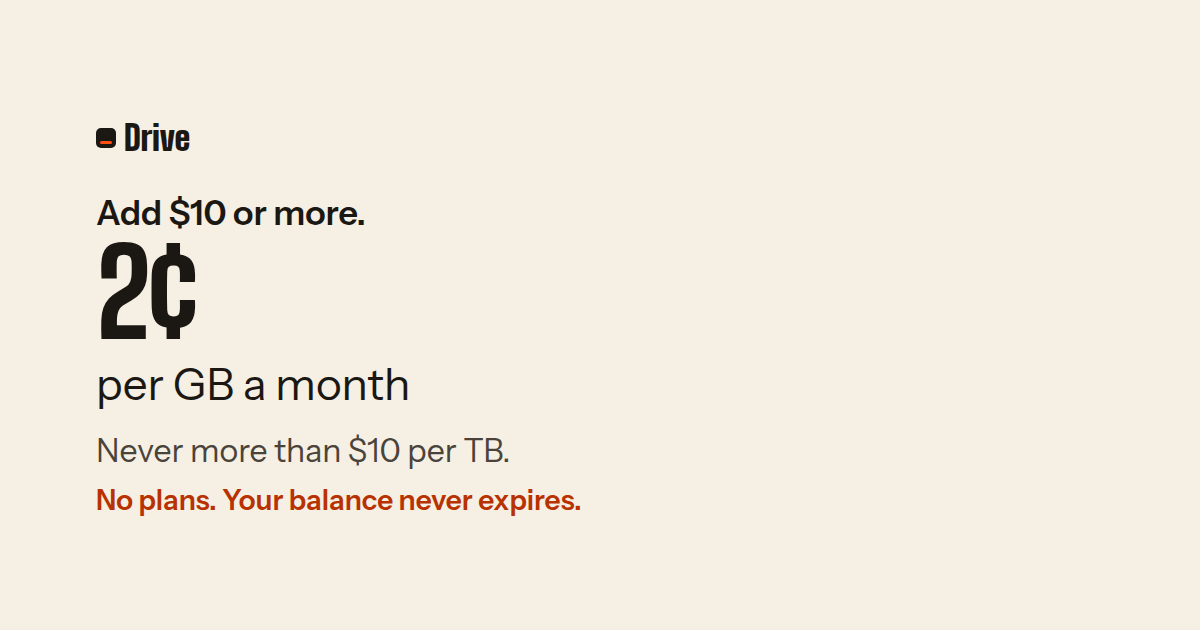
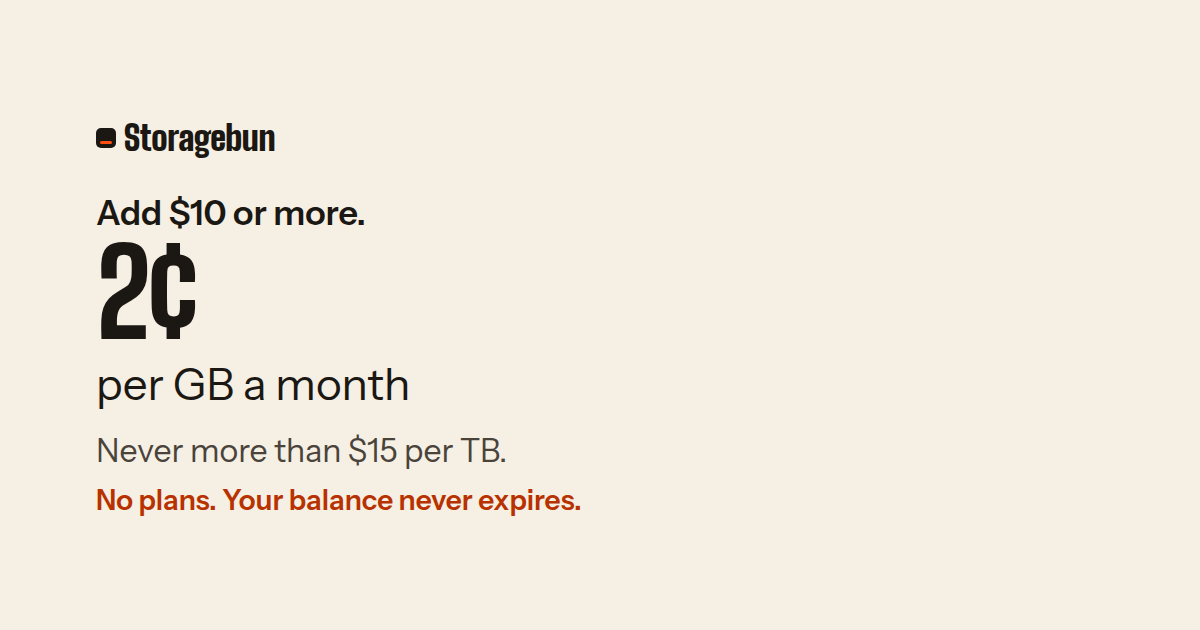
drive#870: redraw the share card and say when Access must move
The og.png still said Drive after the copy moved. The Access comment now
matches the live DNS: nameservers are still at the registrar, so the custom
domain line does not publish the site.

Changed region(s): [[0.0925, 0.181, 0.2467, 0.2714], [0.3083, 0.6937, 0.4317, 0.754]]

diff --git a/cloudflare.config.ts b/cloudflare.config.ts
@@ -40,11 +40,15 @@ export default defineConfig({
     // public pages, the sitemap, robots.txt and llms.txt all carry it.
     // `domains` is the Worker custom domain: one line here is what puts the
     // Worker on the zone, the same way wrangler's `routes` with
-    // `custom_domain: true` does it. Behind the same Cloudflare Access
-    // application as the workers.dev address below, so the new domain is
-    // private too while drive is pre-launch. The workers.dev address stays
-    // on until the custom domain answers for real (issue #870: removing it
-    // is a separate, verified step), and the noindex below holds both.
+    // `custom_domain: true` does it. The workers.dev address stays on until
+    // the custom domain answers for real (issue #870: removing it is a
+    // separate, verified step). Nameservers are still at the registrar, so
+    // this line attaches the hostname inside the Cloudflare zone and does
+    // not publish it. Access must cover storagebun.com before nameservers
+    // move, or the pre-launch site would answer a stranger (drive#159).
+    // test/access-wall.test.mjs fails a 200 from the hostname. The deploy
+    // workflow's matching check is drive#872 (this token cannot push
+    // workflow files).
     domains: ["storagebun.com"],
     workersDev: true,
     previewUrls: false,

diff --git a/docs/runbook.md b/docs/runbook.md
@@ -140,8 +140,9 @@ service token before any monitor can reach it:
 
 1. Zero Trust → Access → Service Auth → Service Tokens: create one token.
 2. Give it an Access policy on the self-hosted app for the
-   `storagebun.com` hostname, scoped to the
-   `/api/health` path only, so the token cannot open the drive itself.
+   `storagebun.com` hostname (and keep the existing workers.dev app until
+   that hostname answers), scoped to the `/api/health` path only, so the
+   token cannot open the drive itself.
 3. Set the token's id and secret as `CF_ACCESS_CLIENT_ID` /
    `CF_ACCESS_CLIENT_SECRET` on the `production` environment — the deploy
    smoke starts checking health on the next deploy.

diff --git a/docs/runbooks/secrets-rotation.md b/docs/runbooks/secrets-rotation.md
@@ -41,7 +41,8 @@ deletes afterwards.
 2. Set it on the Worker (or on the Actions environment for a CI credential).
 3. Deploy `main`.
 4. Check `https://storagebun.com/api/health` for
-   `{"ok":true}`.
+   `{"ok":true}`. Until nameservers point at Cloudflare, the live URL is
+   still `https://drive-pricing.nishant345.workers.dev/api/health`.
 5. Revoke the old value in the provider's dashboard.
 6. Write one line in a new issue: the secret's name, the date, and the health
    result after the rotation. Never the value.

diff --git a/docs/runbooks/incident.md b/docs/runbooks/incident.md
@@ -16,6 +16,9 @@ and the point where the decision is Nish's.
    curl -sS https://storagebun.com/api/health
    ```
 
+   Until nameservers point at Cloudflare, the live URL is still
+   `https://drive-pricing.nishant345.workers.dev/api/health` (behind Access).
+
    A response other than 200, or `ok:false`, is the start of an incident. The
    `failing` name is the first stopped dependency, never a secret, a query or a
    stack.
